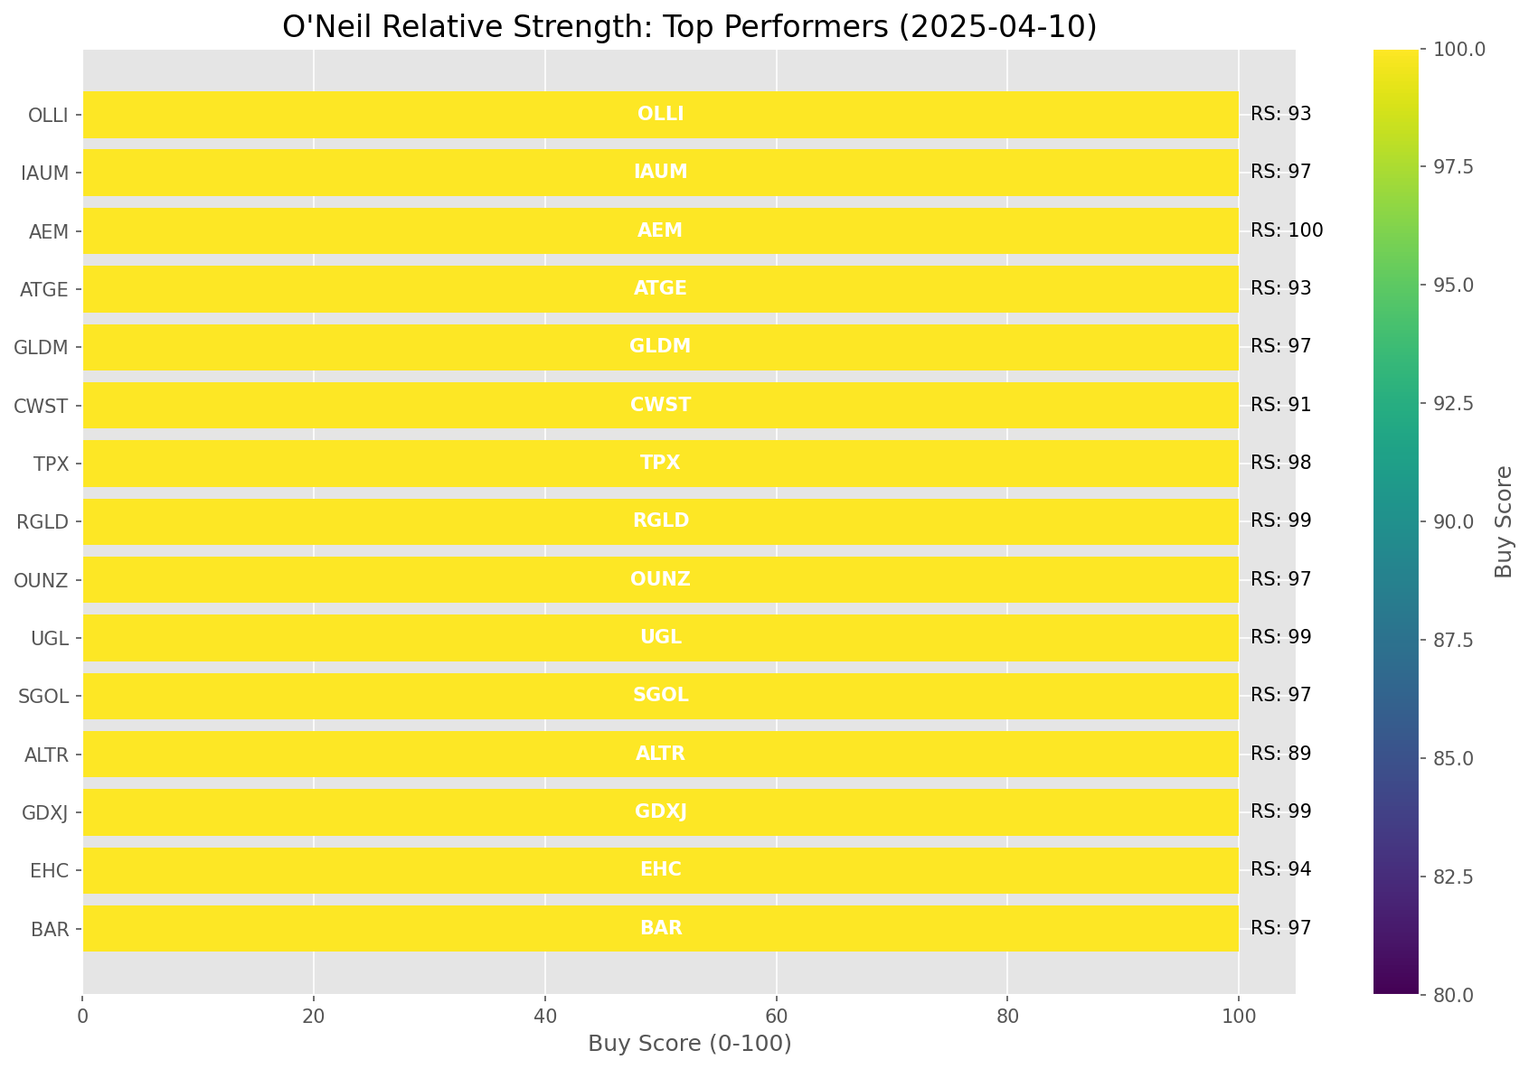
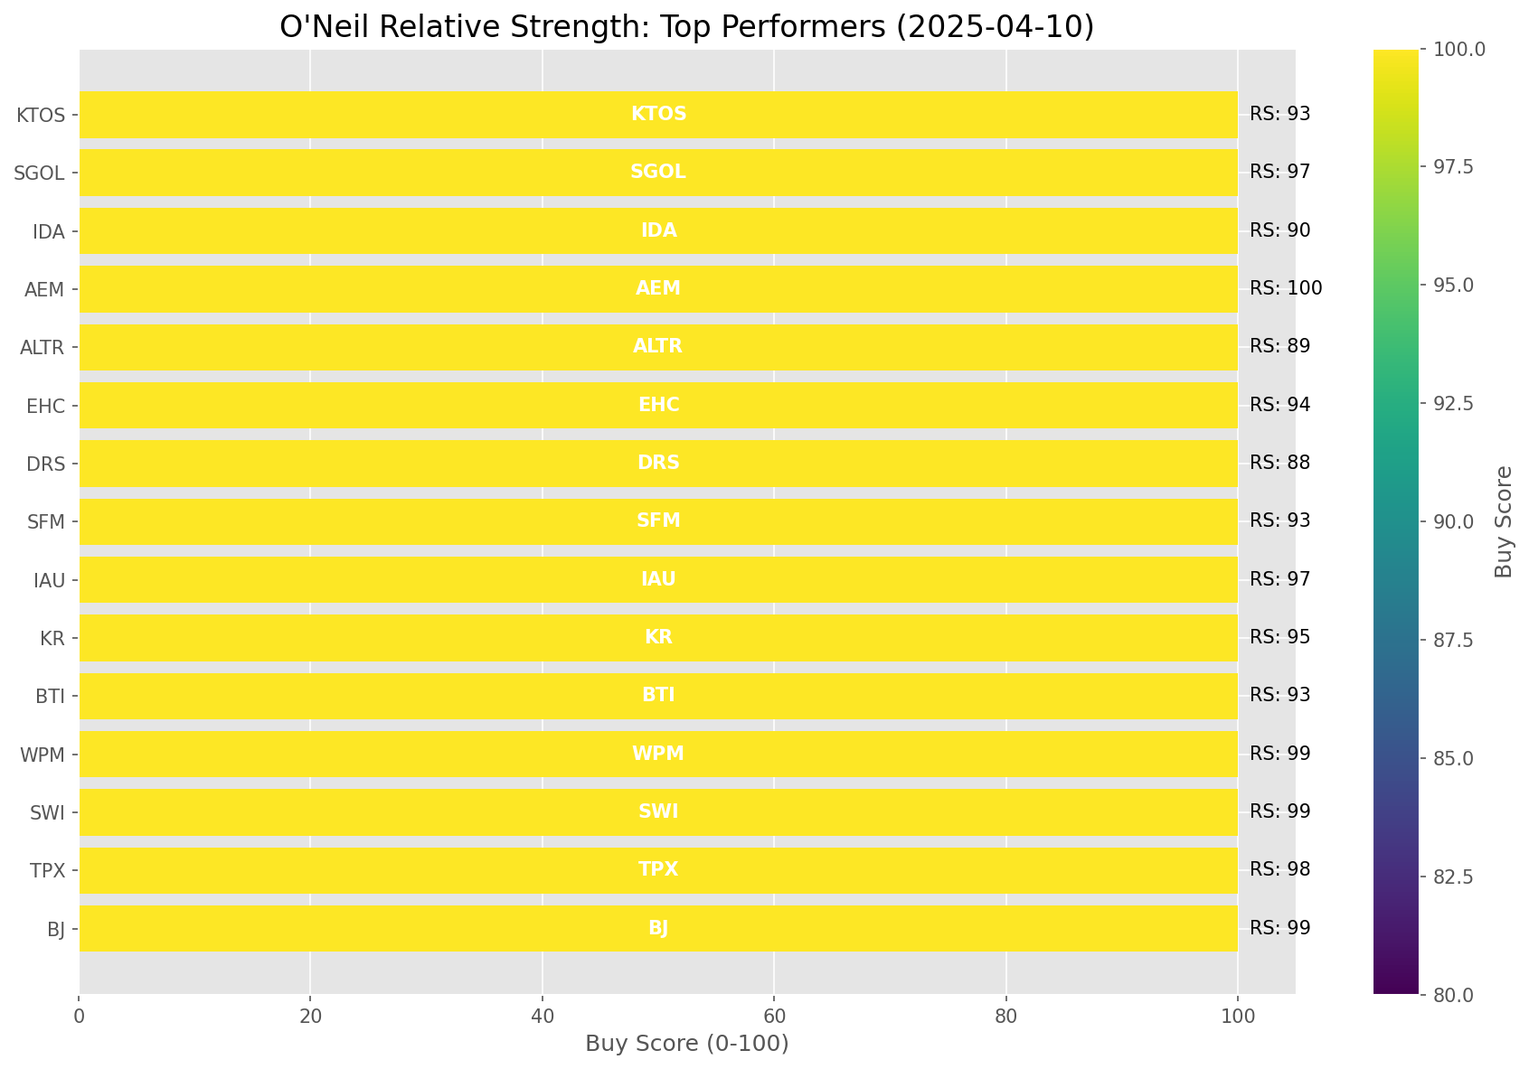
Add market report for 2025-04-10

diff --git a/oneil_relative_strength_report_2025-04-10.md b/oneil_relative_strength_report_2025-04-10.md
@@ -9,11 +9,11 @@
 | Metric | Value |
 |--------|-------|
 | **Market Valuation** | **Undervalued** |
-| **Current Ratio** | 8.65 |
+| **Current Ratio** | 8.66 |
 | **Historical Mean** | 9.71 |
 | **Standard Deviation** | 0.43 |
 | **Z-Score (StdDev from Mean)** | -1.58 |
-| **Total Market Cap** | $257.18 trillion |
+| **Total Market Cap** | $257.38 trillion |
 | **GDP** | $29.72 trillion |
 
 ## Market Insights
@@ -47,19 +47,19 @@ The Buffett Indicator (Total Market Cap / GDP) is a measure of the stock market'
 
 | ETF | Strength | RS Rating | Performance | Above Key MAs | Trend | Sector |
 |-----|----------|-----------|-------------|--------------|-------|--------|
-| [IYZ](https://www.tradingview.com/chart/?symbol=IYZ) | 64.2 | 68.0 | -4.51% | 10d ✗, 50d ✗, 200d ✓ | ↗ | Telecommunications |
-| [XLP](https://www.tradingview.com/chart/?symbol=XLP) | 62.5 | 85.0 | 2.84% | 10d ✗, 50d ✗, 200d ✗ | ↗ | Consumer Staples |
+| [IYZ](https://www.tradingview.com/chart/?symbol=IYZ) | 63.7 | 67.0 | -4.70% | 10d ✗, 50d ✗, 200d ✓ | ↗ | Telecommunications |
+| [XLP](https://www.tradingview.com/chart/?symbol=XLP) | 63.0 | 86.0 | 2.96% | 10d ✗, 50d ✗, 200d ✗ | ↗ | Consumer Staples |
 | [XLU](https://www.tradingview.com/chart/?symbol=XLU) | 58.5 | 77.0 | -0.43% | 10d ✗, 50d ✗, 200d ✗ | ↗ | Utilities |
-| [IYR](https://www.tradingview.com/chart/?symbol=IYR) | 54.0 | 68.0 | -4.57% | 10d ✗, 50d ✗, 200d ✗ | ↗ | Real Estate |
-| [XLF](https://www.tradingview.com/chart/?symbol=XLF) | 53.0 | 66.0 | -5.09% | 10d ✗, 50d ✗, 200d ✗ | ↗ | Financial |
-| [XLI](https://www.tradingview.com/chart/?symbol=XLI) | 51.0 | 62.0 | -6.63% | 10d ✗, 50d ✗, 200d ✗ | ↗ | Industrial |
+| [IYR](https://www.tradingview.com/chart/?symbol=IYR) | 54.0 | 68.0 | -4.43% | 10d ✗, 50d ✗, 200d ✗ | ↗ | Real Estate |
+| [XLF](https://www.tradingview.com/chart/?symbol=XLF) | 53.0 | 66.0 | -5.14% | 10d ✗, 50d ✗, 200d ✗ | ↗ | Financial |
+| [XLI](https://www.tradingview.com/chart/?symbol=XLI) | 51.5 | 63.0 | -6.59% | 10d ✗, 50d ✗, 200d ✗ | ↗ | Industrial |
 | [XLC](https://www.tradingview.com/chart/?symbol=XLC) | 50.0 | 60.0 | -7.48% | 10d ✗, 50d ✗, 200d ✗ | ↗ | Communications |
-| [XLY](https://www.tradingview.com/chart/?symbol=XLY) | 39.5 | 39.0 | -15.47% | 10d ✗, 50d ✗, 200d ✗ | ↗ | Consumer Discretionary |
-| [XLK](https://www.tradingview.com/chart/?symbol=XLK) | 38.0 | 36.0 | -17.05% | 10d ✗, 50d ✗, 200d ✗ | ↗ | Technology |
-| [XLV](https://www.tradingview.com/chart/?symbol=XLV) | 35.5 | 71.0 | -3.20% | 10d ✗, 50d ✗, 200d ✗ | ↘ | Healthcare |
-| [XLB](https://www.tradingview.com/chart/?symbol=XLB) | 31.5 | 63.0 | -6.45% | 10d ✗, 50d ✗, 200d ✗ | ↘ | Materials |
-| [XLE](https://www.tradingview.com/chart/?symbol=XLE) | 23.5 | 47.0 | -12.53% | 10d ✗, 50d ✗, 200d ✗ | ↘ | Energy |
-| [IBB](https://www.tradingview.com/chart/?symbol=IBB) | 19.0 | 38.0 | -15.95% | 10d ✗, 50d ✗, 200d ✗ | ↘ | Biotechnology |
+| [XLY](https://www.tradingview.com/chart/?symbol=XLY) | 39.5 | 39.0 | -15.51% | 10d ✗, 50d ✗, 200d ✗ | ↗ | Consumer Discretionary |
+| [XLK](https://www.tradingview.com/chart/?symbol=XLK) | 38.0 | 36.0 | -17.03% | 10d ✗, 50d ✗, 200d ✗ | ↗ | Technology |
+| [XLV](https://www.tradingview.com/chart/?symbol=XLV) | 35.5 | 71.0 | -3.16% | 10d ✗, 50d ✗, 200d ✗ | ↘ | Healthcare |
+| [XLB](https://www.tradingview.com/chart/?symbol=XLB) | 31.5 | 63.0 | -6.32% | 10d ✗, 50d ✗, 200d ✗ | ↘ | Materials |
+| [XLE](https://www.tradingview.com/chart/?symbol=XLE) | 23.0 | 46.0 | -12.66% | 10d ✗, 50d ✗, 200d ✗ | ↘ | Energy |
+| [IBB](https://www.tradingview.com/chart/?symbol=IBB) | 19.0 | 38.0 | -16.22% | 10d ✗, 50d ✗, 200d ✗ | ↘ | Biotechnology |
 
 ### Sector ETF Performance Interpretation
 
@@ -76,7 +76,7 @@ This table shows the relative strength metrics for different market sectors base
 
 The current market leadership is coming from the following sectors: **Telecommunications, Consumer Staples, Utilities**.
 
-The **Telecommunications** sector (represented by **IYZ**) is showing particularly strong relative strength with an RS rating of 68.0 and performance of -4.51% vs. the S&P 500. This sector is trading above its 200-day moving average(s). Investors should consider focusing on high RS stocks within these leading sectors for potential outperformance.
+The **Telecommunications** sector (represented by **IYZ**) is showing particularly strong relative strength with an RS rating of 67.0 and performance of -4.70% vs. the S&P 500. This sector is trading above its 200-day moving average(s). Investors should consider focusing on high RS stocks within these leading sectors for potential outperformance.
 
 ## Buy Recommendations
 
@@ -84,100 +84,101 @@ The following 46 stocks show exceptional relative strength:
 
 | RS Rating | Buy Score | Current Price | Chart | Name | Ticker |
 |-----------|-----------|---------------|-------|------|--------|
-| 97 | 100 | $31.29 | [Chart](https://www.tradingview.com/chart/?symbol=BAR) | GraniteShares Gold Shares | BAR |
-| 94 | 100 | $102.85 | [Chart](https://www.tradingview.com/chart/?symbol=EHC) | Encompass Health Corporation Common Stock | EHC |
-| 99 | 100 | $58.41 | [Chart](https://www.tradingview.com/chart/?symbol=GDXJ) | VanEck Junior Gold Miners ETF | GDXJ |
-| 97 | 100 | $30.26 | [Chart](https://www.tradingview.com/chart/?symbol=SGOL) | abrdn Physical Gold Shares ETF | SGOL |
-| 99 | 100 | $131.09 | [Chart](https://www.tradingview.com/chart/?symbol=UGL) | ProShares Ultra Gold | UGL |
-| 97 | 100 | $30.58 | [Chart](https://www.tradingview.com/chart/?symbol=OUNZ) | VanEck Merk Gold ETF | OUNZ |
-| 99 | 100 | $171.87 | [Chart](https://www.tradingview.com/chart/?symbol=RGLD) | Royal Gold Inc | RGLD |
-| 91 | 100 | $114.32 | [Chart](https://www.tradingview.com/chart/?symbol=CWST) | Casella Waste Systems Inc | CWST |
-| 97 | 100 | $62.82 | [Chart](https://www.tradingview.com/chart/?symbol=GLDM) | SPDR Gold MiniShares | GLDM |
-| 93 | 100 | $103.72 | [Chart](https://www.tradingview.com/chart/?symbol=ATGE) | Adtalem Global Education Inc. Common Shares | ATGE |
-| 100 | 100 | $112.47 | [Chart](https://www.tradingview.com/chart/?symbol=AEM) | Agnico Eagle Mines Ltd. | AEM |
-| 97 | 100 | $31.63 | [Chart](https://www.tradingview.com/chart/?symbol=IAUM) | iShares Gold Trust Micro | IAUM |
-| 93 | 100 | $113.94 | [Chart](https://www.tradingview.com/chart/?symbol=OLLI) | Ollie's Bargain Outlet Holdings, Inc. Common Stock | OLLI |
+| 99 | 100 | $117.56 | [Chart](https://www.tradingview.com/chart/?symbol=BJ) | BJs Wholesale Club Holdings, Inc. Common Stock | BJ |
 | 99 | 100 | $18.48 | [Chart](https://www.tradingview.com/chart/?symbol=SWI) | SolarWinds Corporation Common Stock | SWI |
-| 99 | 100 | $117.63 | [Chart](https://www.tradingview.com/chart/?symbol=BJ) | BJs Wholesale Club Holdings, Inc. Common Stock | BJ |
-| 95 | 100 | $52.26 | [Chart](https://www.tradingview.com/chart/?symbol=SKWD) | Skyward Specialty Insurance Group, Inc. Common Stock | SKWD |
-| 97 | 100 | $292.47 | [Chart](https://www.tradingview.com/chart/?symbol=GLD) | SPDR Gold Trust, SPDR Gold Shares | GLD |
-| 90 | 100 | $116.29 | [Chart](https://www.tradingview.com/chart/?symbol=IDA) | IDACORP, Inc. | IDA |
-| 97 | 100 | $59.84 | [Chart](https://www.tradingview.com/chart/?symbol=IAU) | iShares Gold Trust | IAU |
-| 99 | 100 | $78.27 | [Chart](https://www.tradingview.com/chart/?symbol=WPM) | Wheaton Precious Metals Corp. Common Stock | WPM |
-| 95 | 100 | $27.96 | [Chart](https://www.tradingview.com/chart/?symbol=CEF) | Sprott Physical Gold and Silver Trust | CEF |
+| 99 | 100 | $77.74 | [Chart](https://www.tradingview.com/chart/?symbol=WPM) | Wheaton Precious Metals Corp. Common Stock | WPM |
 | 93 | 100 | $40.74 | [Chart](https://www.tradingview.com/chart/?symbol=BTI) | British American Tobacco p.l.c. American Depositary Shares, American Depositary Shares, each representing one Ordinary Share | BTI |
-| 97 | 100 | $24.32 | [Chart](https://www.tradingview.com/chart/?symbol=PHYS) | Sprott Physical Gold Trust | PHYS |
-| 97 | 100 | $72.14 | [Chart](https://www.tradingview.com/chart/?symbol=RYAN) | Ryan Specialty Holdings, Inc. | RYAN |
-| 94 | 100 | $154.67 | [Chart](https://www.tradingview.com/chart/?symbol=SFM) | Sprouts Farmers Market, Inc. | SFM |
-| 100 | 100 | $28.26 | [Chart](https://www.tradingview.com/chart/?symbol=AGI) | Alamos Gold Inc. Class A Common Shares | AGI |
-| 92 | 100 | $47.73 | [Chart](https://www.tradingview.com/chart/?symbol=GFL) | GFL Environmental Inc. Subordinate Voting Shares | GFL |
-| 95 | 100 | $67.94 | [Chart](https://www.tradingview.com/chart/?symbol=KR) | The Kroger Co. | KR |
-| 93 | 100 | $31.70 | [Chart](https://www.tradingview.com/chart/?symbol=KTOS) | Kratos Defense & Security Solutions, Inc. | KTOS |
-| 99 | 100 | $144.50 | [Chart](https://www.tradingview.com/chart/?symbol=PLMR) | Palomar Holdings, Inc. Common stock | PLMR |
-| 89 | 100 | $33.90 | [Chart](https://www.tradingview.com/chart/?symbol=DRS) | Leonardo DRS, Inc. Common Stock | DRS |
-| 94 | 100 | $439.94 | [Chart](https://www.tradingview.com/chart/?symbol=CASY) | Casey's General Stores Inc | CASY |
-| 97 | 100 | $239.51 | [Chart](https://www.tradingview.com/chart/?symbol=RSG) | Republic Services Inc. | RSG |
-| 96 | 100 | $37.51 | [Chart](https://www.tradingview.com/chart/?symbol=MRX) | Marex Group plc Ordinary Shares | MRX |
-| 96 | 100 | $21.75 | [Chart](https://www.tradingview.com/chart/?symbol=OR) | Osisko Gold Royalties Ltd | OR |
-| 99 | 100 | $15.48 | [Chart](https://www.tradingview.com/chart/?symbol=EZPW) | Ezcorp Inc | EZPW |
-| 88 | 100 | $44.38 | [Chart](https://www.tradingview.com/chart/?symbol=MRCY) | Mercury Systems Inc. | MRCY |
-| 94 | 100 | $273.56 | [Chart](https://www.tradingview.com/chart/?symbol=PGR) | Progressive Corporation | PGR |
-| 98 | 100 | $21.86 | [Chart](https://www.tradingview.com/chart/?symbol=SRAD) | Sportradar Group AG Class A Ordinary Shares | SRAD |
-| 89 | 99 | $127.21 | [Chart](https://www.tradingview.com/chart/?symbol=TJX) | TJX Companies, Inc. (The) | TJX |
+| 95 | 100 | $67.67 | [Chart](https://www.tradingview.com/chart/?symbol=KR) | The Kroger Co. | KR |
+| 97 | 100 | $59.81 | [Chart](https://www.tradingview.com/chart/?symbol=IAU) | iShares Gold Trust | IAU |
+| 93 | 100 | $153.97 | [Chart](https://www.tradingview.com/chart/?symbol=SFM) | Sprouts Farmers Market, Inc. | SFM |
+| 88 | 100 | $33.84 | [Chart](https://www.tradingview.com/chart/?symbol=DRS) | Leonardo DRS, Inc. Common Stock | DRS |
+| 94 | 100 | $102.59 | [Chart](https://www.tradingview.com/chart/?symbol=EHC) | Encompass Health Corporation Common Stock | EHC |
+| 100 | 100 | $112.34 | [Chart](https://www.tradingview.com/chart/?symbol=AEM) | Agnico Eagle Mines Ltd. | AEM |
+| 90 | 100 | $116.06 | [Chart](https://www.tradingview.com/chart/?symbol=IDA) | IDACORP, Inc. | IDA |
+| 97 | 100 | $30.26 | [Chart](https://www.tradingview.com/chart/?symbol=SGOL) | abrdn Physical Gold Shares ETF | SGOL |
+| 93 | 100 | $31.69 | [Chart](https://www.tradingview.com/chart/?symbol=KTOS) | Kratos Defense & Security Solutions, Inc. | KTOS |
+| 99 | 100 | $143.28 | [Chart](https://www.tradingview.com/chart/?symbol=PLMR) | Palomar Holdings, Inc. Common stock | PLMR |
+| 97 | 100 | $24.31 | [Chart](https://www.tradingview.com/chart/?symbol=PHYS) | Sprott Physical Gold Trust | PHYS |
+| 97 | 100 | $239.30 | [Chart](https://www.tradingview.com/chart/?symbol=RSG) | Republic Services Inc. | RSG |
+| 100 | 100 | $28.20 | [Chart](https://www.tradingview.com/chart/?symbol=AGI) | Alamos Gold Inc. Class A Common Shares | AGI |
+| 97 | 100 | $292.42 | [Chart](https://www.tradingview.com/chart/?symbol=GLD) | SPDR Gold Trust, SPDR Gold Shares | GLD |
+| 99 | 100 | $58.37 | [Chart](https://www.tradingview.com/chart/?symbol=GDXJ) | VanEck Junior Gold Miners ETF | GDXJ |
+| 99 | 100 | $130.99 | [Chart](https://www.tradingview.com/chart/?symbol=UGL) | ProShares Ultra Gold | UGL |
+| 95 | 100 | $52.37 | [Chart](https://www.tradingview.com/chart/?symbol=SKWD) | Skyward Specialty Insurance Group, Inc. Common Stock | SKWD |
+| 99 | 100 | $15.44 | [Chart](https://www.tradingview.com/chart/?symbol=EZPW) | Ezcorp Inc | EZPW |
+| 93 | 100 | $113.68 | [Chart](https://www.tradingview.com/chart/?symbol=OLLI) | Ollie's Bargain Outlet Holdings, Inc. Common Stock | OLLI |
+| 92 | 100 | $47.62 | [Chart](https://www.tradingview.com/chart/?symbol=GFL) | GFL Environmental Inc. Subordinate Voting Shares | GFL |
+| 97 | 100 | $31.28 | [Chart](https://www.tradingview.com/chart/?symbol=BAR) | GraniteShares Gold Shares | BAR |
+| 97 | 100 | $36.33 | [Chart](https://www.tradingview.com/chart/?symbol=CNP) | CenterPoint Energy, Inc. | CNP |
+| 97 | 100 | $31.63 | [Chart](https://www.tradingview.com/chart/?symbol=IAUM) | iShares Gold Trust Micro | IAUM |
+| 95 | 100 | $27.98 | [Chart](https://www.tradingview.com/chart/?symbol=CEF) | Sprott Physical Gold and Silver Trust | CEF |
+| 93 | 100 | $103.87 | [Chart](https://www.tradingview.com/chart/?symbol=ATGE) | Adtalem Global Education Inc. Common Shares | ATGE |
+| 88 | 100 | $44.42 | [Chart](https://www.tradingview.com/chart/?symbol=MRCY) | Mercury Systems Inc. | MRCY |
+| 96 | 100 | $21.77 | [Chart](https://www.tradingview.com/chart/?symbol=OR) | Osisko Gold Royalties Ltd | OR |
+| 97 | 100 | $30.58 | [Chart](https://www.tradingview.com/chart/?symbol=OUNZ) | VanEck Merk Gold ETF | OUNZ |
+| 91 | 100 | $113.72 | [Chart](https://www.tradingview.com/chart/?symbol=CWST) | Casella Waste Systems Inc | CWST |
+| 94 | 100 | $273.36 | [Chart](https://www.tradingview.com/chart/?symbol=PGR) | Progressive Corporation | PGR |
+| 97 | 100 | $62.81 | [Chart](https://www.tradingview.com/chart/?symbol=GLDM) | SPDR Gold MiniShares | GLDM |
+| 99 | 100 | $171.69 | [Chart](https://www.tradingview.com/chart/?symbol=RGLD) | Royal Gold Inc | RGLD |
+| 90 | 100 | $127.53 | [Chart](https://www.tradingview.com/chart/?symbol=TJX) | TJX Companies, Inc. (The) | TJX |
+| 94 | 100 | $438.89 | [Chart](https://www.tradingview.com/chart/?symbol=CASY) | Casey's General Stores Inc | CASY |
+| 96 | 100 | $37.42 | [Chart](https://www.tradingview.com/chart/?symbol=MRX) | Marex Group plc Ordinary Shares | MRX |
+| 98 | 100 | $21.81 | [Chart](https://www.tradingview.com/chart/?symbol=SRAD) | Sportradar Group AG Class A Ordinary Shares | SRAD |
+| 86 | 97 | $74.79 | [Chart](https://www.tradingview.com/chart/?symbol=BRBR) | BellRing Brands, Inc. | BRBR |
 | 85 | 97 | $22.48 | [Chart](https://www.tradingview.com/chart/?symbol=ATSG) | Air Transport Services Group, Inc. | ATSG |
-| 88 | 97 | $75.74 | [Chart](https://www.tradingview.com/chart/?symbol=FAST) | Fastenal Co | FAST |
-| 86 | 97 | $74.89 | [Chart](https://www.tradingview.com/chart/?symbol=BRBR) | BellRing Brands, Inc. | BRBR |
+| 85 | 96 | $35.87 | [Chart](https://www.tradingview.com/chart/?symbol=FYBR) | Frontier Communications Parent, Inc. Common Stock | FYBR |
 | 83 | 96 | $111.59 | [Chart](https://www.tradingview.com/chart/?symbol=BOXX) | Alpha Architect 1-3 Month Box ETF | BOXX |
-| 84 | 95 | $35.87 | [Chart](https://www.tradingview.com/chart/?symbol=FYBR) | Frontier Communications Parent, Inc. Common Stock | FYBR |
-| 83 | 93 | $22.46 | [Chart](https://www.tradingview.com/chart/?symbol=PYCR) | Paycor HCM, Inc. Common Stock | PYCR |
+| 84 | 94 | $22.46 | [Chart](https://www.tradingview.com/chart/?symbol=PYCR) | Paycor HCM, Inc. Common Stock | PYCR |
+| 80 | 90 | $20.69 | [Chart](https://www.tradingview.com/chart/?symbol=BSCP) | Invesco BulletShares 2025 Corporate Bond ETF | BSCP |
 
 ## Sell Recommendations
 
-The following 41 stocks show deteriorating relative strength:
+The following 42 stocks show deteriorating relative strength:
 
 | RS Rating | Sell Score | Current Price | Chart | Name | Ticker |
 |-----------|------------|---------------|-------|------|--------|
-| 5 | 100 | $11.72 | [Chart](https://www.tradingview.com/chart/?symbol=GCT) | GigaCloud Technology Inc Class A Ordinary Shares | GCT |
+| 12 | 100 | $43.24 | [Chart](https://www.tradingview.com/chart/?symbol=EDU) | New Oriental Education and Technology Group, Inc. American Depositary Shares (each representing ten (10) Common Shares) | EDU |
+| 5 | 100 | $11.76 | [Chart](https://www.tradingview.com/chart/?symbol=GCT) | GigaCloud Technology Inc Class A Ordinary Shares | GCT |
+| 1 | 100 | $66.04 | [Chart](https://www.tradingview.com/chart/?symbol=PI) | Impinj, Inc. Common Stock | PI |
 | 8 | 100 | $10.10 | [Chart](https://www.tradingview.com/chart/?symbol=CGEM) | Cullinan Therapeutics, Inc. Common Stock | CGEM |
-| 1 | 100 | $65.74 | [Chart](https://www.tradingview.com/chart/?symbol=PI) | Impinj, Inc. Common Stock | PI |
-| 12 | 100 | $43.31 | [Chart](https://www.tradingview.com/chart/?symbol=EDU) | New Oriental Education and Technology Group, Inc. American Depositary Shares (each representing ten (10) Common Shares) | EDU |
 | 15 | 100 | $28.25 | [Chart](https://www.tradingview.com/chart/?symbol=SRDX) | Surmodics, Inc. Common Stock | SRDX |
-| 12 | 99 | $49.53 | [Chart](https://www.tradingview.com/chart/?symbol=ENPH) | Enphase Energy, Inc. | ENPH |
-| 6 | 99 | $35.12 | [Chart](https://www.tradingview.com/chart/?symbol=HELE) | Helen Of Troy Ltd | HELE |
-| 4 | 98 | $19.08 | [Chart](https://www.tradingview.com/chart/?symbol=DJT) | Trump Media & Technology Group Corp. Common Stock | DJT |
-| 7 | 95 | $11.68 | [Chart](https://www.tradingview.com/chart/?symbol=MARA) | MARA Holdings, Inc. Common Stock | MARA |
+| 3 | 99 | $18.91 | [Chart](https://www.tradingview.com/chart/?symbol=DJT) | Trump Media & Technology Group Corp. Common Stock | DJT |
+| 6 | 99 | $35.43 | [Chart](https://www.tradingview.com/chart/?symbol=HELE) | Helen Of Troy Ltd | HELE |
+| 12 | 99 | $49.37 | [Chart](https://www.tradingview.com/chart/?symbol=ENPH) | Enphase Energy, Inc. | ENPH |
+| 7 | 95 | $11.65 | [Chart](https://www.tradingview.com/chart/?symbol=MARA) | MARA Holdings, Inc. Common Stock | MARA |
 | 15 | 94 | $11.78 | [Chart](https://www.tradingview.com/chart/?symbol=AEYE) | AudioEye, Inc. Common Stock | AEYE |
-| 15 | 93 | $20.84 | [Chart](https://www.tradingview.com/chart/?symbol=HOG) | Harley-Davidson, Inc. | HOG |
-| 13 | 93 | $19.04 | [Chart](https://www.tradingview.com/chart/?symbol=HZO) | MarineMax, Inc. | HZO |
-| 24 | 92 | $13.18 | [Chart](https://www.tradingview.com/chart/?symbol=FXN) | First Trust Energy AlphaDEX Fund | FXN |
+| 15 | 93 | $20.91 | [Chart](https://www.tradingview.com/chart/?symbol=HOG) | Harley-Davidson, Inc. | HOG |
+| 24 | 92 | $13.16 | [Chart](https://www.tradingview.com/chart/?symbol=FXN) | First Trust Energy AlphaDEX Fund | FXN |
+| 13 | 92 | $19.10 | [Chart](https://www.tradingview.com/chart/?symbol=HZO) | MarineMax, Inc. | HZO |
 | 26 | 91 | $10.03 | [Chart](https://www.tradingview.com/chart/?symbol=MTAL) | MAC Copper Limited | MTAL |
-| 17 | 91 | $26.67 | [Chart](https://www.tradingview.com/chart/?symbol=TAN) | Invesco Solar ETF | TAN |
-| 14 | 89 | $48.15 | [Chart](https://www.tradingview.com/chart/?symbol=RHI) | Robert Half Inc. | RHI |
+| 17 | 90 | $26.57 | [Chart](https://www.tradingview.com/chart/?symbol=TAN) | Invesco Solar ETF | TAN |
+| 14 | 89 | $48.37 | [Chart](https://www.tradingview.com/chart/?symbol=RHI) | Robert Half Inc. | RHI |
 | 17 | 89 | $10.24 | [Chart](https://www.tradingview.com/chart/?symbol=EXPI) | eXp World Holdings, Inc. Common Stock | EXPI |
 | 16 | 88 | $10.77 | [Chart](https://www.tradingview.com/chart/?symbol=SONO) | Sonos, Inc. Common Stock | SONO |
-| 18 | 88 | $10.04 | [Chart](https://www.tradingview.com/chart/?symbol=CMP) | Compass Minerals International, Inc. | CMP |
-| 23 | 87 | $52.41 | [Chart](https://www.tradingview.com/chart/?symbol=CNMD) | CONMED Corporation | CNMD |
+| 19 | 87 | $10.06 | [Chart](https://www.tradingview.com/chart/?symbol=CMP) | Compass Minerals International, Inc. | CMP |
+| 23 | 87 | $52.59 | [Chart](https://www.tradingview.com/chart/?symbol=CNMD) | CONMED Corporation | CNMD |
 | 24 | 85 | $10.49 | [Chart](https://www.tradingview.com/chart/?symbol=PEB) | Pebblebrook Hotel Trust | PEB |
-| 28 | 83 | $13.08 | [Chart](https://www.tradingview.com/chart/?symbol=MED) | Medifast, Inc. | MED |
+| 17 | 84 | $111.25 | [Chart](https://www.tradingview.com/chart/?symbol=MYRG) | MYR Group, Inc. | MYRG |
+| 28 | 83 | $13.09 | [Chart](https://www.tradingview.com/chart/?symbol=MED) | Medifast, Inc. | MED |
 | 22 | 83 | $10.15 | [Chart](https://www.tradingview.com/chart/?symbol=HLIT) | Harmonic Inc | HLIT |
-| 22 | 83 | $11.35 | [Chart](https://www.tradingview.com/chart/?symbol=RIVN) | Rivian Automotive, Inc. Class A Common Stock | RIVN |
+| 22 | 83 | $11.36 | [Chart](https://www.tradingview.com/chart/?symbol=RIVN) | Rivian Automotive, Inc. Class A Common Stock | RIVN |
 | 23 | 82 | $11.34 | [Chart](https://www.tradingview.com/chart/?symbol=HPK) | HighPeak Energy, Inc. Common Stock | HPK |
 | 31 | 81 | $10.11 | [Chart](https://www.tradingview.com/chart/?symbol=CELC) | Celcuity Inc. Common Stock | CELC |
-| 21 | 80 | $347.27 | [Chart](https://www.tradingview.com/chart/?symbol=SAIA) | Saia, Inc. | SAIA |
-| 26 | 79 | $17.47 | [Chart](https://www.tradingview.com/chart/?symbol=IART) | Integra LifeSciences Holdings | IART |
-| 27 | 79 | $50.91 | [Chart](https://www.tradingview.com/chart/?symbol=HXL) | Hexcel Corporation | HXL |
+| 21 | 79 | $347.85 | [Chart](https://www.tradingview.com/chart/?symbol=SAIA) | Saia, Inc. | SAIA |
 | 26 | 79 | $10.04 | [Chart](https://www.tradingview.com/chart/?symbol=HTLD) | Heartland Express Inc | HTLD |
+| 27 | 79 | $51.12 | [Chart](https://www.tradingview.com/chart/?symbol=HXL) | Hexcel Corporation | HXL |
+| 27 | 78 | $17.55 | [Chart](https://www.tradingview.com/chart/?symbol=IART) | Integra LifeSciences Holdings | IART |
 | 33 | 78 | $10.71 | [Chart](https://www.tradingview.com/chart/?symbol=DBRG) | DigitalBridge Group, Inc. | DBRG |
-| 30 | 75 | $22.09 | [Chart](https://www.tradingview.com/chart/?symbol=AMRK) | A-Mark Precious Metals, Inc. | AMRK |
-| 28 | 74 | $13.35 | [Chart](https://www.tradingview.com/chart/?symbol=MANU) | MANCHESTER UNITED PLC | MANU |
-| 35 | 73 | $11.11 | [Chart](https://www.tradingview.com/chart/?symbol=NAVI) | Navient Corporation | NAVI |
+| 31 | 74 | $22.18 | [Chart](https://www.tradingview.com/chart/?symbol=AMRK) | A-Mark Precious Metals, Inc. | AMRK |
 | 39 | 73 | $10.30 | [Chart](https://www.tradingview.com/chart/?symbol=CSTM) | Constellium SE Class A Ordinary shares | CSTM |
-| 37 | 71 | $10.95 | [Chart](https://www.tradingview.com/chart/?symbol=LBTYK) | Liberty Global Ltd. Class C Common Shares | LBTYK |
-| 36 | 70 | $16.67 | [Chart](https://www.tradingview.com/chart/?symbol=CTRI) | Centuri Holdings, Inc. | CTRI |
+| 29 | 73 | $13.42 | [Chart](https://www.tradingview.com/chart/?symbol=MANU) | MANCHESTER UNITED PLC | MANU |
+| 37 | 71 | $10.94 | [Chart](https://www.tradingview.com/chart/?symbol=LBTYK) | Liberty Global Ltd. Class C Common Shares | LBTYK |
+| 35 | 71 | $16.62 | [Chart](https://www.tradingview.com/chart/?symbol=CTRI) | Centuri Holdings, Inc. | CTRI |
+| 38 | 70 | $11.25 | [Chart](https://www.tradingview.com/chart/?symbol=NAVI) | Navient Corporation | NAVI |
 | 36 | 69 | $10.34 | [Chart](https://www.tradingview.com/chart/?symbol=CMRE) | Costamare Inc. | CMRE |
-| 37 | 68 | $56.62 | [Chart](https://www.tradingview.com/chart/?symbol=BMRN) | BioMarin Pharmaceuticals Inc | BMRN |
-| 35 | 66 | $24.80 | [Chart](https://www.tradingview.com/chart/?symbol=RAMP) | LiveRamp Holdings, Inc. Common Stock | RAMP |
-| 36 | 64 | $105.61 | [Chart](https://www.tradingview.com/chart/?symbol=MHO) | M/I Homes, Inc. | MHO |
+| 36 | 69 | $56.46 | [Chart](https://www.tradingview.com/chart/?symbol=BMRN) | BioMarin Pharmaceuticals Inc | BMRN |
+| 35 | 65 | $24.77 | [Chart](https://www.tradingview.com/chart/?symbol=RAMP) | LiveRamp Holdings, Inc. Common Stock | RAMP |
+| 37 | 63 | $105.88 | [Chart](https://www.tradingview.com/chart/?symbol=MHO) | M/I Homes, Inc. | MHO |
 
 ## Methodology
 
